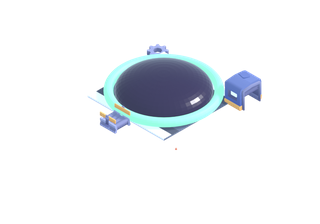
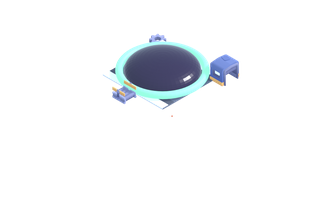
fix(home): keep the entry-card captions clear of their art
The caption sits 32 design units below the card's centre, which is 79% of a
112-tall card, so a frame occupying the top 79% of the art overlapped it. The
frame now ends at 62% of the composed 320x224 card, which clears the caption's
top edge with room to spare.

The card position itself is not a defect: the authored y of -468 is pinned by the
layout contract, and the cards end 138 px above the page bottom.

Changed region(s): [[0.2812, 0.1562, 0.8438, 0.625]]

diff --git a/art-source/vector/compose_home_layers.py b/art-source/vector/compose_home_layers.py
@@ -79,7 +79,10 @@ def compose_cards():
     by the node's content size.
     """
     width, height = 320, 224
-    art_h = 176                      # framed vignette occupies the top
+    # The caption sits 32 design units below the card's centre, which is 79% of a
+    # 112-tall card. The framed vignette therefore has to end by ~70% or the two
+    # overlap -- which is what the previous 176px frame did.
+    art_h = 138                      # framed vignette occupies the top
     frame = art('frame_card.png')
 
     for entry in ('mode', 'machine', 'skin'):
@@ -94,7 +97,7 @@ def compose_cards():
         if vignette.width > inner_w:
             left = (vignette.width - inner_w) // 2
             vignette = vignette.crop((left, 0, left + inner_w, art_h))
-        card.alpha_composite(vignette, ((width - vignette.width) // 2, 6))
+        card.alpha_composite(vignette, ((width - vignette.width) // 2, 4))
 
         framed = frame.resize((width, art_h), Image.LANCZOS)
         card.alpha_composite(framed, (0, 0))
